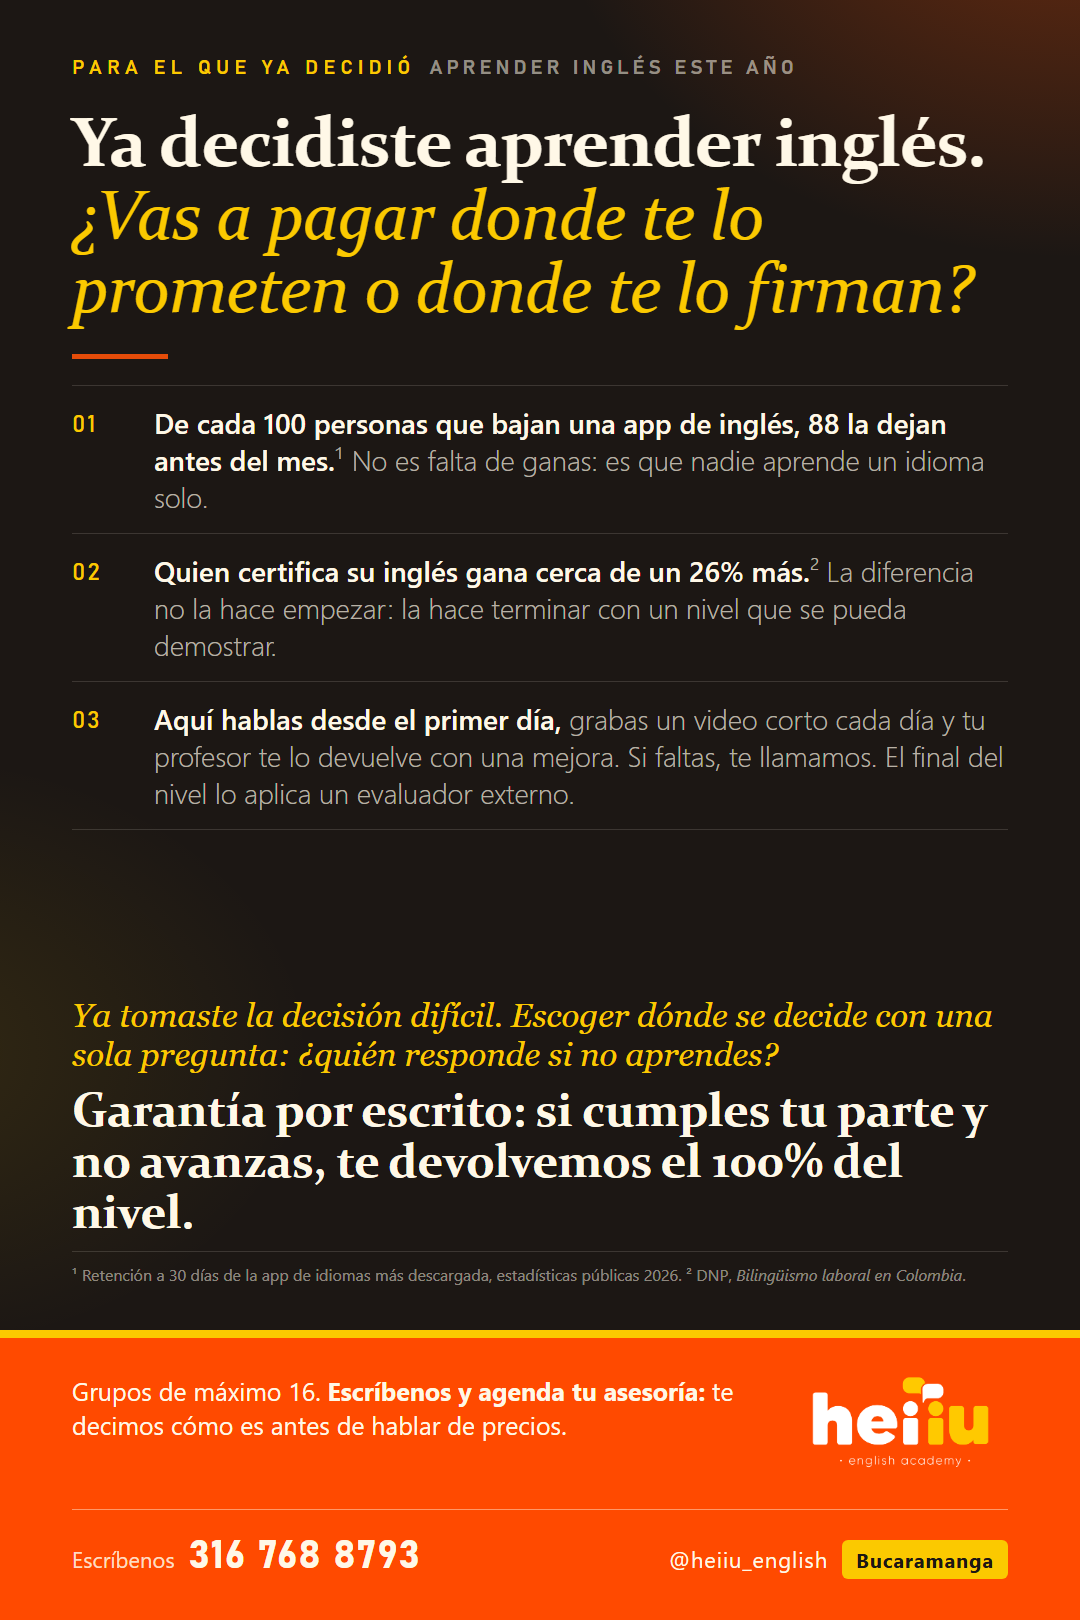
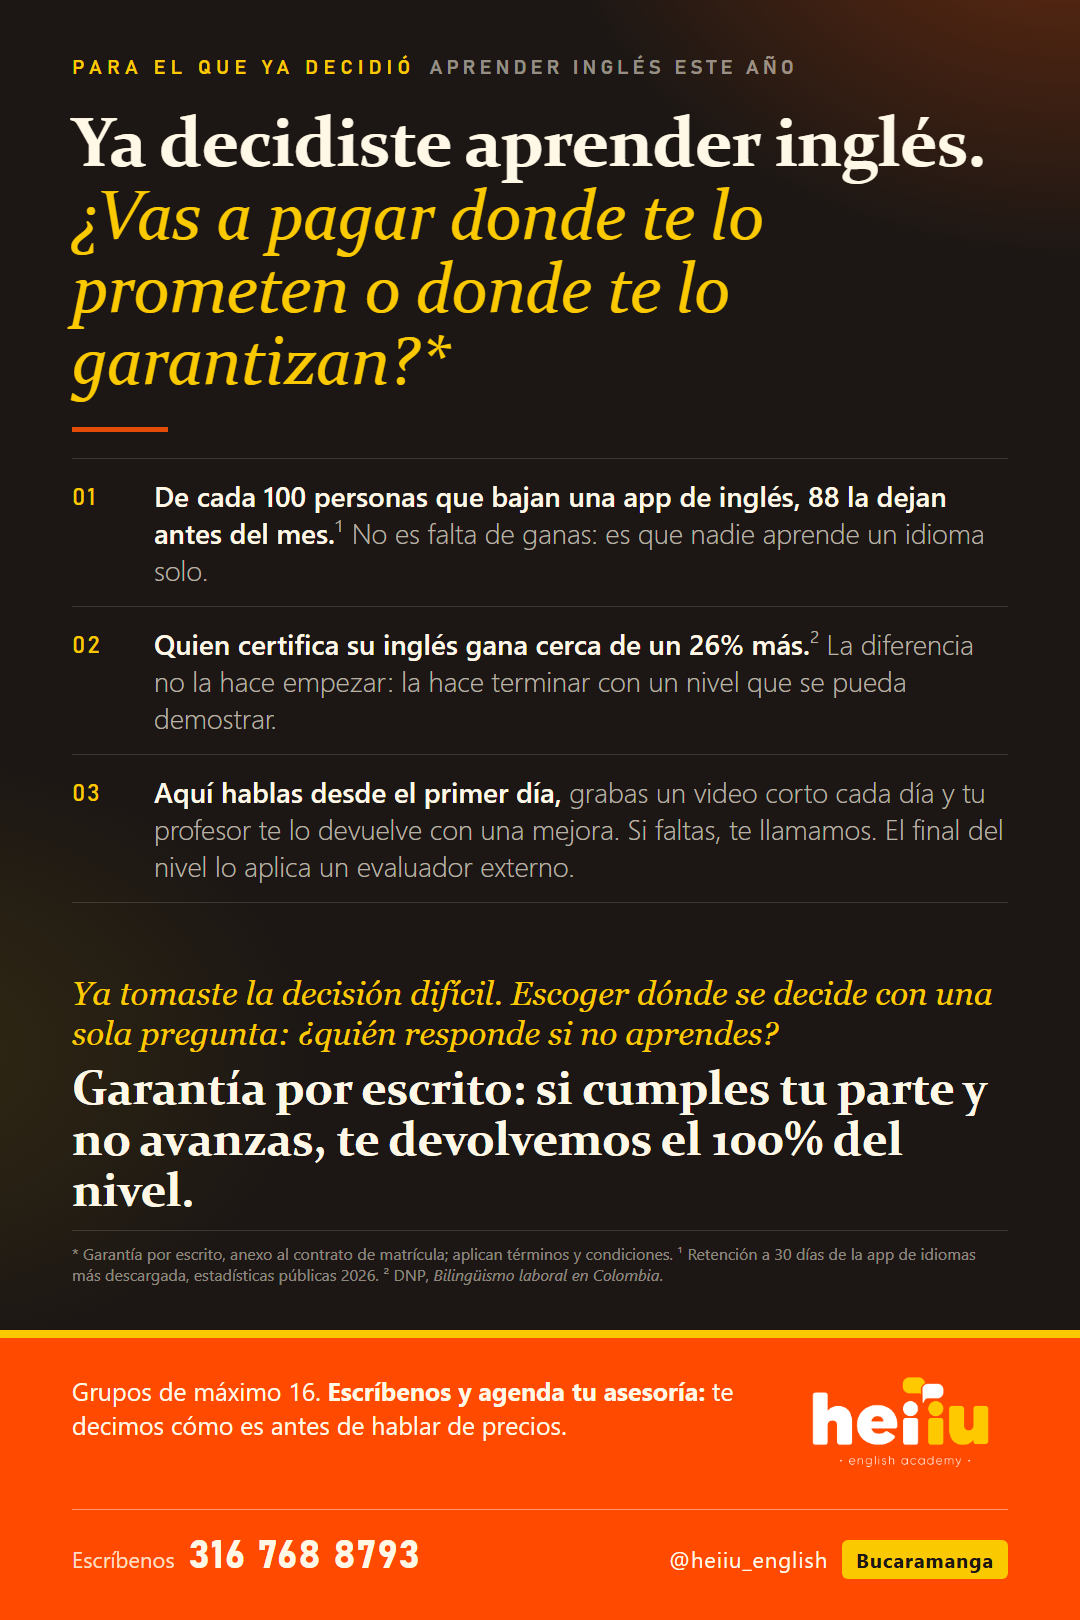
Pieza decidido: 'donde te lo prometen o donde te lo garantizan*' con nota de terminos y condiciones al pie

diff --git a/generadores/comercial/gen_piezas_conciencia.py b/generadores/comercial/gen_piezas_conciencia.py
@@ -245,7 +245,7 @@ PIEZAS = {
         band_px=290),
     'DECIDIDO_FRENTE': dict(   # para el que YA decidio aprender ingles y esta escogiendo donde (decision de gerencia 27/10/2026); trato de tu
         compact=True, label='PARA EL QUE YA DECIDIÓ', sub='APRENDER INGLÉS ESTE AÑO',
-        h1='Ya decidiste aprender inglés. <em>¿Vas a pagar donde te lo prometen o donde te lo firman?</em>',
+        h1='Ya decidiste aprender inglés. <em>¿Vas a pagar donde te lo prometen o donde te lo garantizan?*</em>',
         st=[('<b>De cada 100 personas que bajan una app de inglés, 88 la dejan antes del mes.</b>¹ No es falta de ganas: es que nadie aprende un idioma solo.'),
             ('<b>Quien certifica su inglés gana cerca de un 26% más.</b>² La diferencia no la hace empezar: la hace terminar con un nivel que se pueda demostrar.'),
             ('<b>Aquí hablas desde el primer día,</b> grabas un video corto cada día y tu profesor te lo devuelve con una mejora. Si faltas, te llamamos ese mismo día.'),
@@ -253,7 +253,7 @@ PIEZAS = {
         lead='Ya tomaste la decisión difícil. Escoger dónde se decide con una sola pregunta: ¿quién responde si no aprendes?',
         big='Garantía por escrito: si cumples tu parte y no avanzas, te devolvemos el 100% del nivel.',
         big2='',
-        fn='¹ Retención a 30 días de la app de idiomas más descargada, estadísticas públicas 2026. ² DNP, <i>Bilingüismo laboral en Colombia</i>.',
+        fn='* Garantía por escrito, anexo al contrato de matrícula; aplican términos y condiciones. ¹ Retención a 30 días de la app de idiomas más descargada, estadísticas públicas 2026. ² DNP, <i>Bilingüismo laboral en Colombia</i>.',
         band='Dale la vuelta a la hoja: así entrenamos en Heiiu y <b>por qué podemos firmarlo</b>.',
         band_px=250),
     'DECIDIDO_RESPALDO': dict(
@@ -374,13 +374,13 @@ PIEZAS = {
         band_px=290),
     'DECIDIDO_CORTA': dict(
         compact=True, label='PARA EL QUE YA DECIDIÓ', sub='APRENDER INGLÉS ESTE AÑO',
-        h1='Ya decidiste aprender inglés. <em>¿Vas a pagar donde te lo prometen o donde te lo firman?</em>',
+        h1='Ya decidiste aprender inglés. <em>¿Vas a pagar donde te lo prometen o donde te lo garantizan?*</em>',
         st=[('<b>De cada 100 personas que bajan una app de inglés, 88 la dejan antes del mes.</b>¹ No es falta de ganas: es que nadie aprende un idioma solo.'),
             ('<b>Quien certifica su inglés gana cerca de un 26% más.</b>² La diferencia no la hace empezar: la hace terminar con un nivel que se pueda demostrar.'),
             ('<b>Aquí hablas desde el primer día,</b> grabas un video corto cada día y tu profesor te lo devuelve con una mejora. Si faltas, te llamamos. El final del nivel lo aplica un evaluador externo.')],
         lead='Ya tomaste la decisión difícil. Escoger dónde se decide con una sola pregunta: ¿quién responde si no aprendes?',
         big='Garantía por escrito: si cumples tu parte y no avanzas, te devolvemos el 100% del nivel.',
-        big2='', fn='¹ Retención a 30 días de la app de idiomas más descargada, estadísticas públicas 2026. ² DNP, <i>Bilingüismo laboral en Colombia</i>.',
+        big2='', fn='* Garantía por escrito, anexo al contrato de matrícula; aplican términos y condiciones. ¹ Retención a 30 días de la app de idiomas más descargada, estadísticas públicas 2026. ² DNP, <i>Bilingüismo laboral en Colombia</i>.',
         band='Grupos de máximo 16. <b>Escríbenos y agenda tu asesoría:</b> te decimos cómo es antes de hablar de precios.',
         band_px=290),
     'RECEPCION_CORTA': dict(
